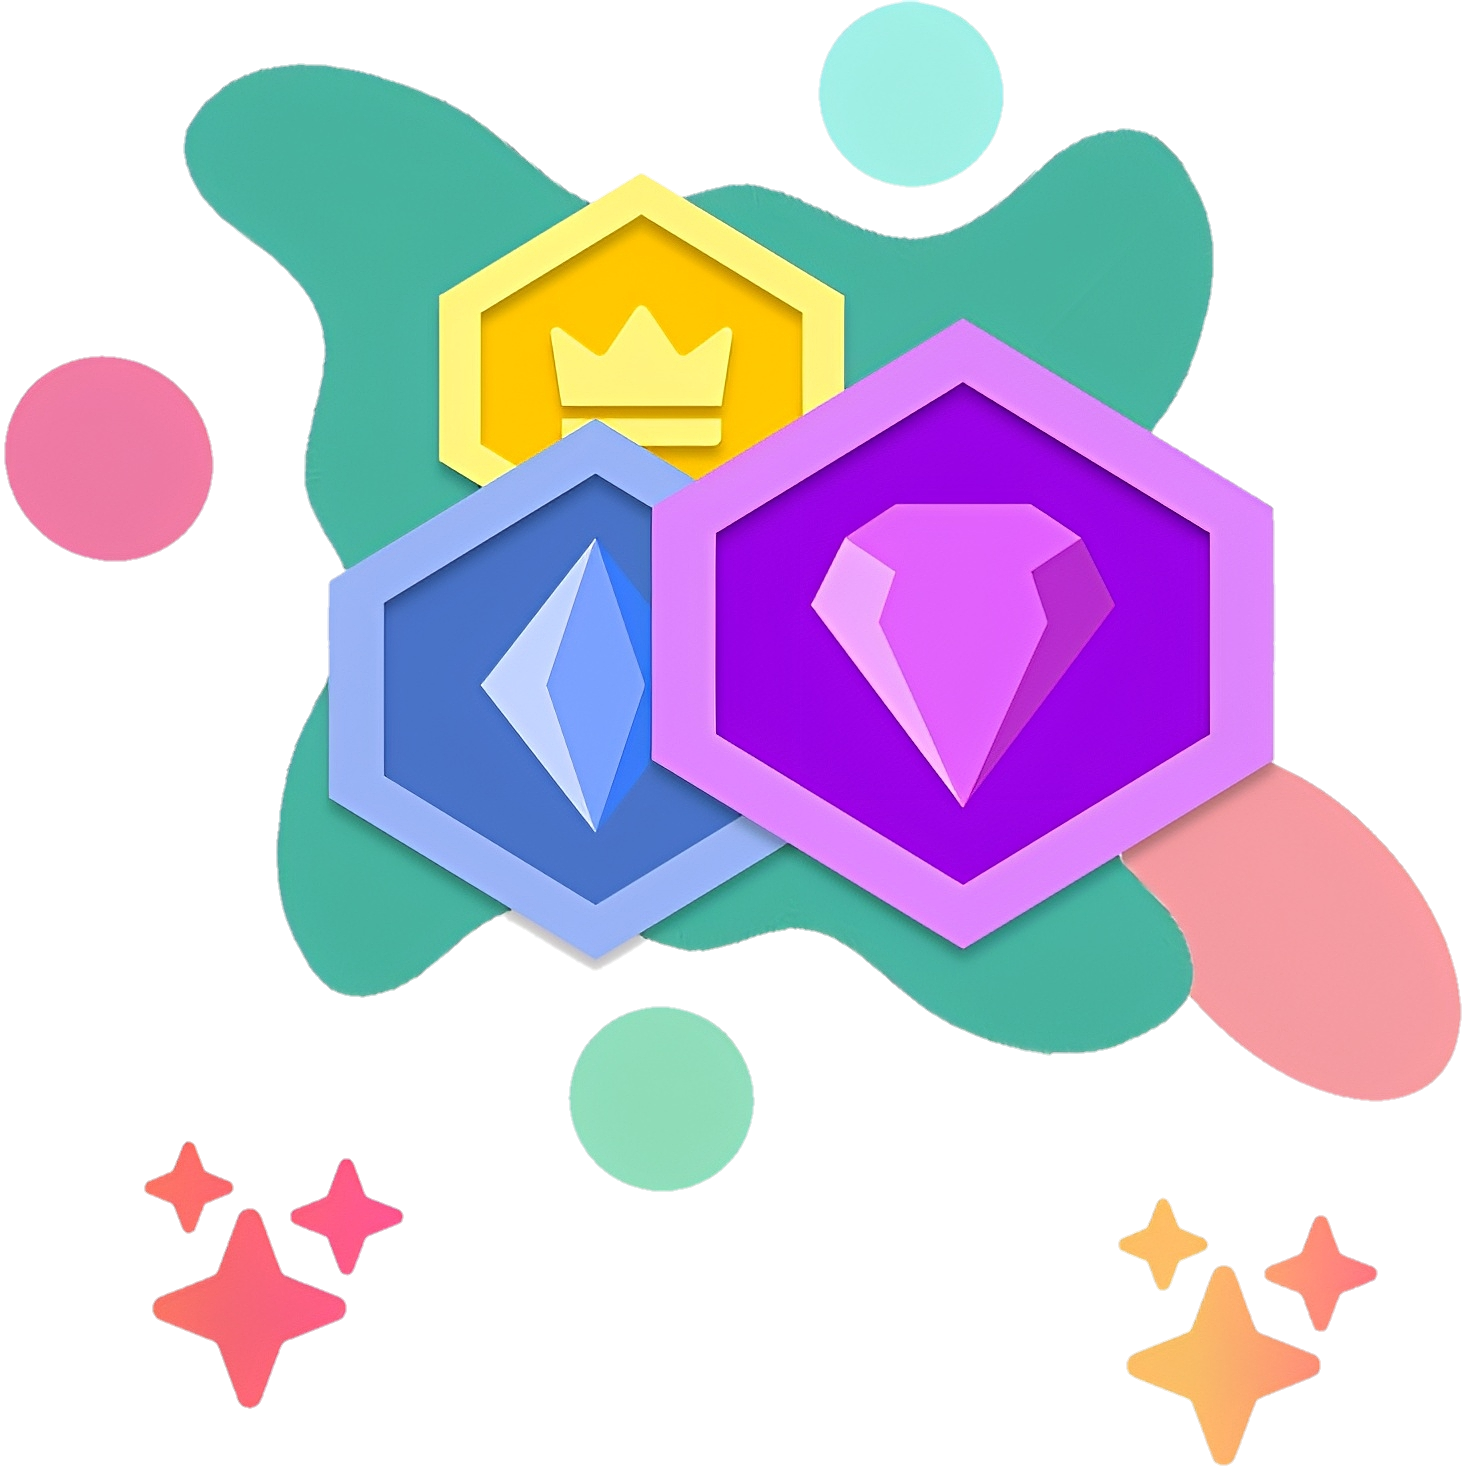
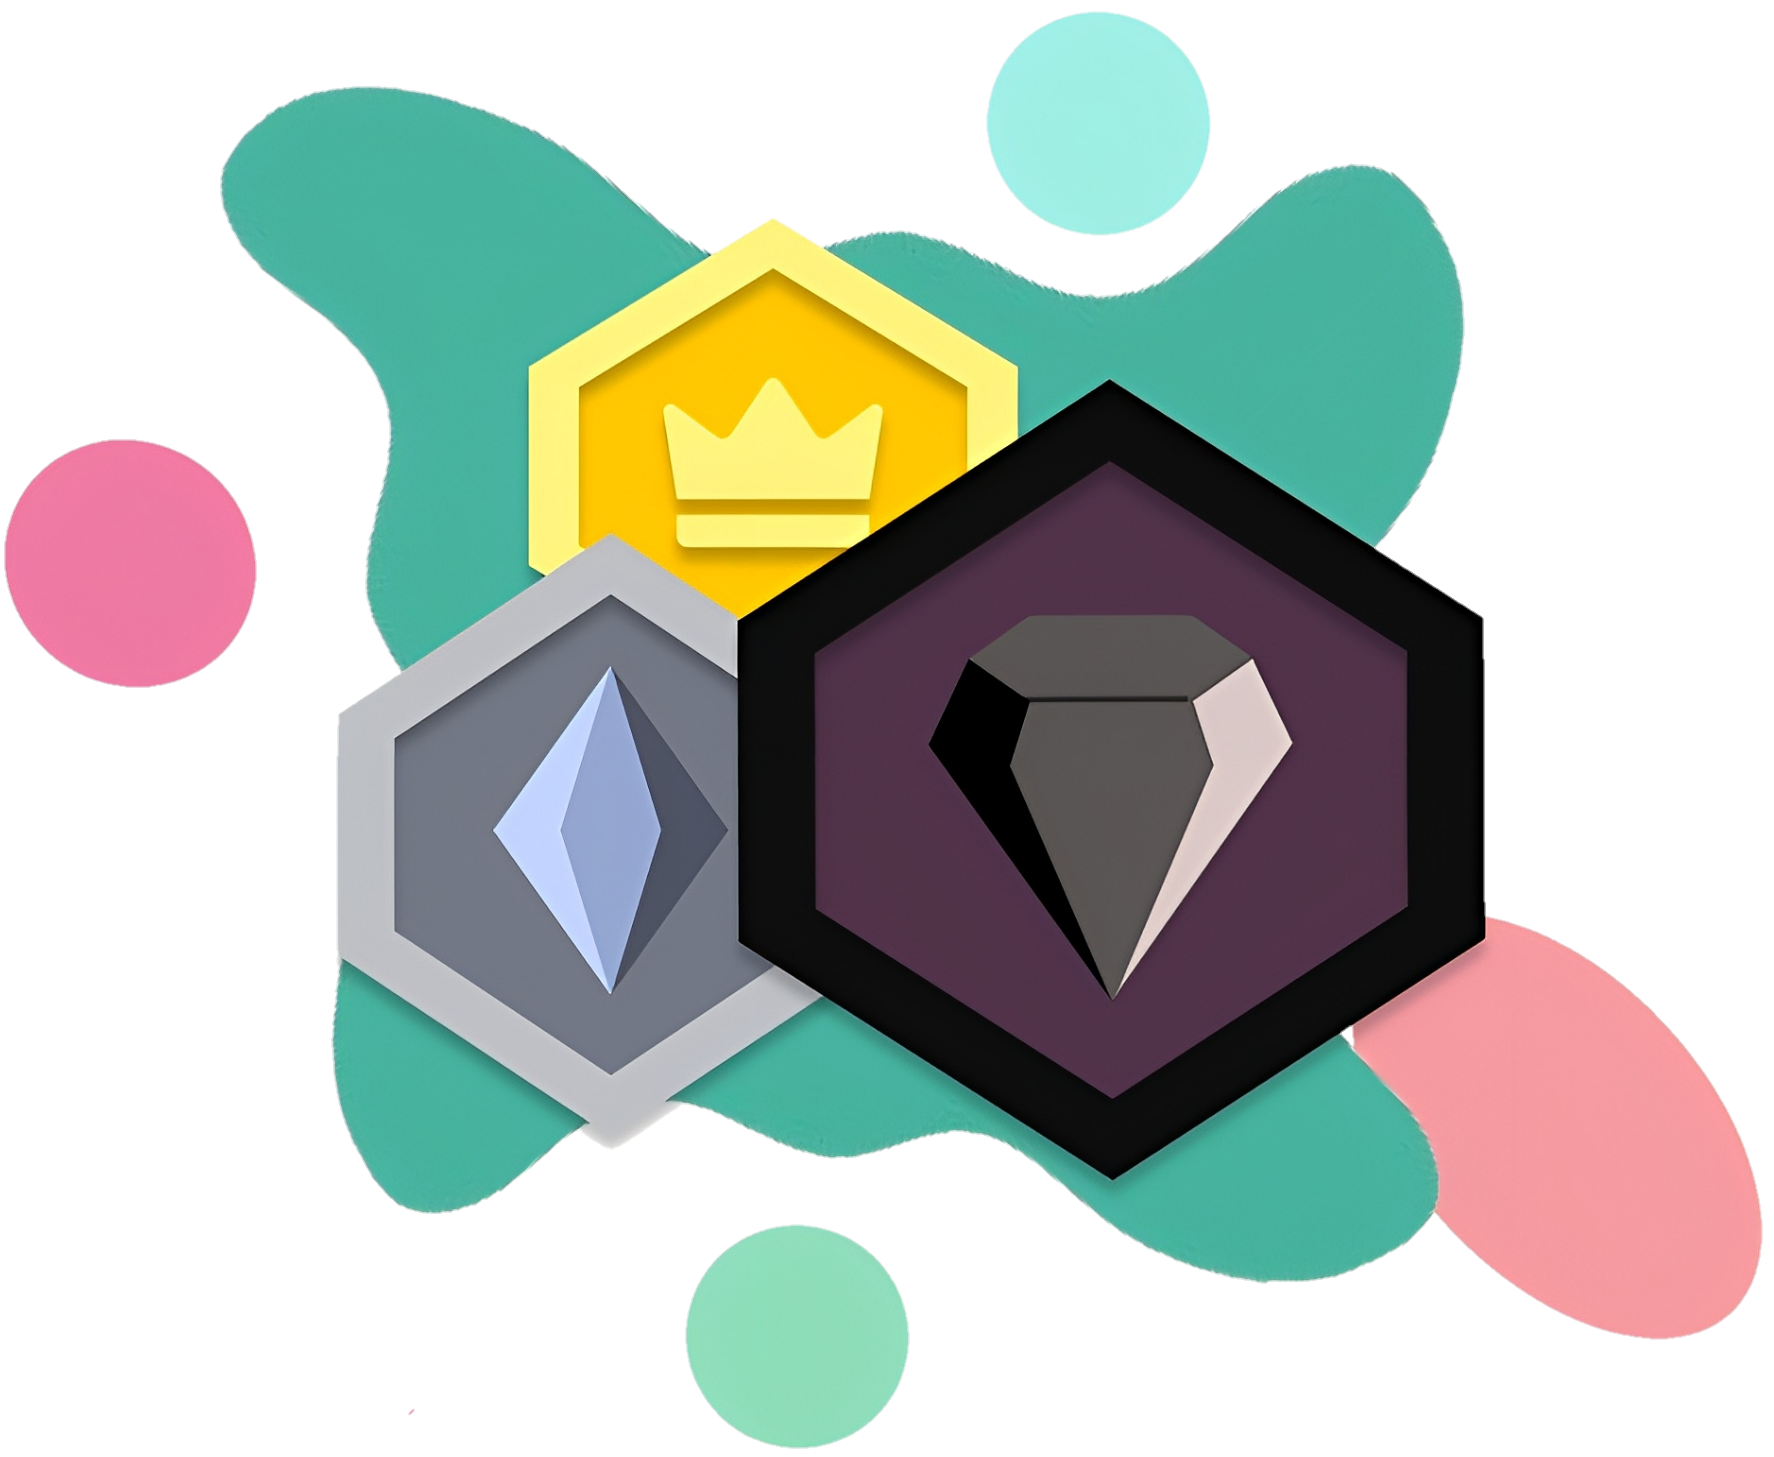
Cambios de los rangos en general.

diff --git a/client/src/pages/Rangos.jsx b/client/src/pages/Rangos.jsx
@@ -16,7 +16,7 @@ const Rangos = () => {
                         <p className="text-4xl text-center text-white justify-self-center mt-4 drop-shadow-[1px_1px_var(--tw-shadow-color)] shadow-[gray]">Conoce los beneficios que cada rango tiene para ti</p>
                     </div>
                     <div className="grid w-2/5 items-center">
-                        <img className="justify-self-center pr-6" src="../../pictures/RangosInfo.png" alt="Los rangos disponibles para los usuarios." />
+                        <img className="justify-self-center pr-6" src="../../pictures/LosRangos.png" alt="Los rangos disponibles para los usuarios." />
                     </div>
                     <div className="deg"></div>
                 </div>
@@ -58,7 +58,7 @@ const Rangos = () => {
                         <div className="grid justify-center h-auto grid-cols-2 gap-4 p-10 border-[1rem] border-purple-800 rounded-3xl place-content-center md:grid-cols-1 md:gap-8 md:place-content-start ">
                             <h1 className="col-span-2 font-bold text-3xl text-center text-purple-800 drop-shadow-[1px_1px_var(--tw-shadow-color)] shadow-[black] ">Rango VIP</h1>
                             <div className="grid w-full m-auto md:col-span-2">
-                                <img className='rounded-2xl w-40 justify-self-center duration-200 hover:w-44' src="../../pictures/nuevoVIP.png" alt="Rango VIP" />
+                                <img className='rounded-2xl w-40 justify-self-center duration-200 hover:w-44' src="../../pictures/rangoVIP2.png" alt="Rango VIP" />
                             </div>
                             <div className="grid gap-1 text-center divide-black divide- md:gap-4 md:col-span-2">
                                 <p className='bg-[#616C8926] py-4 text-2xl rounded-xl border-2 border-purple-950 duration-200 hover:border-purple-800 hover:font-bold'>5,000 puntos</p>

diff --git a/client/src/pages/Perfil.jsx b/client/src/pages/Perfil.jsx
@@ -1,4 +1,4 @@
-import React, { useState, useEffect } from 'react'
+import { useState, useEffect } from 'react'
 import LayoutPrincipal from '../layouts/LayoutPrincipal'
 import { IoIosArrowBack } from "react-icons/io";
 import { MdNavigateNext } from "react-icons/md";
@@ -137,7 +137,7 @@ function Perfil() {
                         </a>
                         <a href='/perfil/rango' className='flex justify-between p-5 duration-200 hover:bg-slate-200 hover:underline rounded-xl'>
                             <div className='flex gap-6'>
-                                <div className='rounded-full place-content-center md:bg-[#D9D9D9]'><img className='w-10 md:w-12' src="../../pictures/rango.png" alt="" /></div>
+                                <div className='rounded-full place-content-center md:bg-[#D9D9D9]'><img className='w-10 md:w-12' src="../../pictures/rangoVIP2.png" alt="" /></div>
                                 <div>
                                     <h2>Rango</h2>
                                     <p className='text-gray-500'>Mi nivel de rango</p>

diff --git a/client/src/components/ui/Tarjetas.jsx b/client/src/components/ui/Tarjetas.jsx
@@ -13,7 +13,7 @@ function Tarjetas() {
                 {/* <h1 className="justify-self-center text-4xl md:text-6xl font-[iloveglitter] text-[#036C65]">¡Hazte socio!</h1> */}
                 <div className="items-center gap-0 text-center md:grid md:grid-cols-2 place-content-center">
                     <div>
-                        <img src={"../../../pictures/rangos.png"} alt="Rangos, los tres rangos disponibles que se pueden alcanzar." className='w-5/6' />
+                        <img src={"../../../pictures/Rangos.png"} alt="Rangos, los tres rangos disponibles que se pueden alcanzar." className='w-5/6' />
                     </div>
                     <div className='p-8 mt-0 bg-gradient-to-b from-[#F6CFEE] via-[#FFF1DD] to-[#DDF3FA] rounded-xl'>
                         <h1 className="text-4xl md:text-6xl font-[iloveglitter] font-bold text-[#036C65]">Conoce el potencial de los rangos</h1>

diff --git a/client/src/pages/perfil/InformacionPersonal.jsx b/client/src/pages/perfil/InformacionPersonal.jsx
@@ -291,7 +291,7 @@ function InformacionPersonal() {
                                                 rango === 3 ? (
                                                     <>
                                                         <h1 className="font-bold text-2xl text-center text-purple-950 drop-shadow-[1px_1px_var(--tw-shadow-color)] shadow-[black] ">Rango VIP</h1>
-                                                        <img className='m-auto md:w-1/3' src={`../../../pictures/nuevoVIP.png`} alt="" />
+                                                        <img className='m-auto md:w-1/3' src={`../../../pictures/rangoVIP2.png`} alt="" />
                                                     </>
                                                 ) : (
                                                     <>

diff --git a/client/src/components/ui/Navbar.jsx b/client/src/components/ui/Navbar.jsx
@@ -270,7 +270,7 @@ function Navbar() {
                                                 ) : (
                                                     rango === 3 ? (
                                                         <img
-                                                            src="../../../pictures/nuevoVIP.png"
+                                                            src="../../../pictures/rangoVIP2.png"
                                                             alt="Eres rango VIP."
                                                             className="w-4 h-auto m-auto ml-2"
                                                         />

diff --git a/client/src/pages/perfil/Rango.jsx b/client/src/pages/perfil/Rango.jsx
@@ -2,7 +2,7 @@ import { useState, useEffect } from "react";
 import LayoutPrincipal from "../../layouts/LayoutPrincipal";
 import { IoIosArrowBack } from "react-icons/io";
 import rangoPlatino from "../../../public/pictures/nuevoPlatino.png";
-import rangoVIP from "../../../public/pictures/nuevoVIP.png";
+import rangoVIP from "../../../public/pictures/rangoVIP2.png";
 import rangoOro from "../../../public/pictures/rangoOro.png";
 
 function Rango() {
